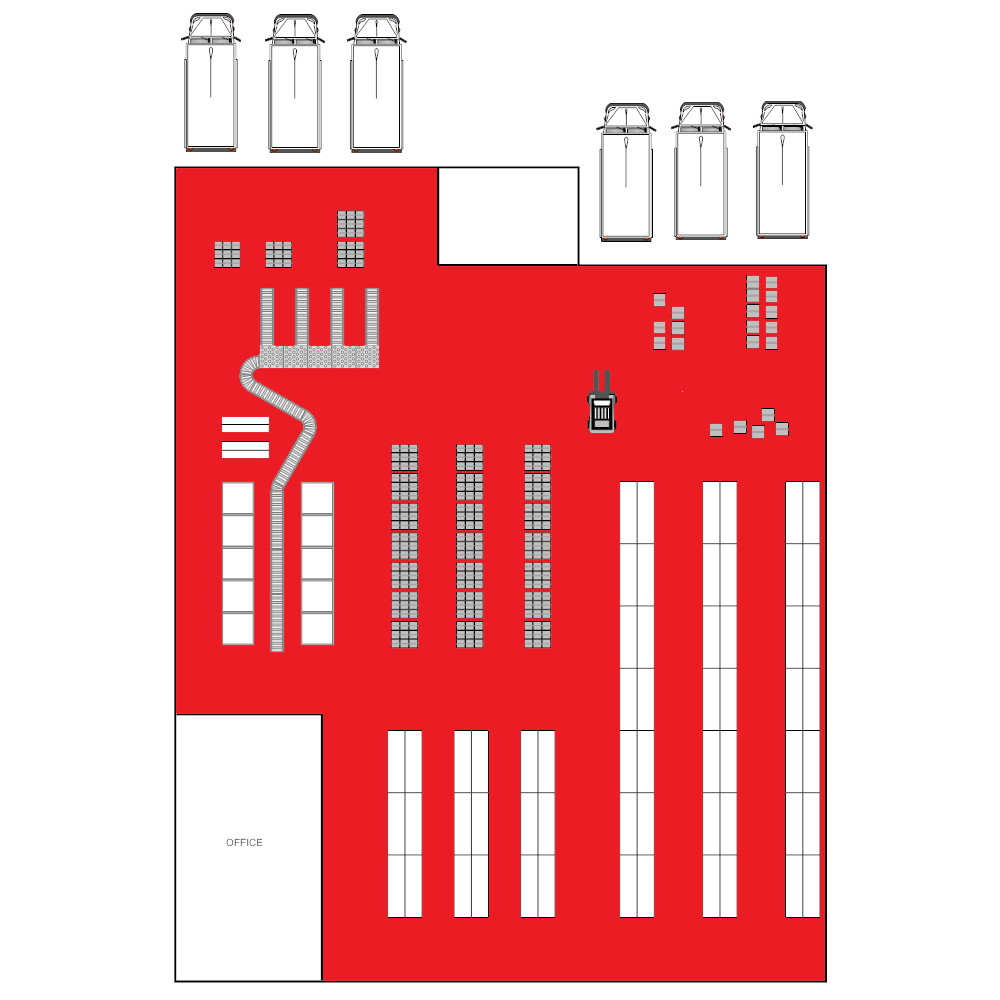
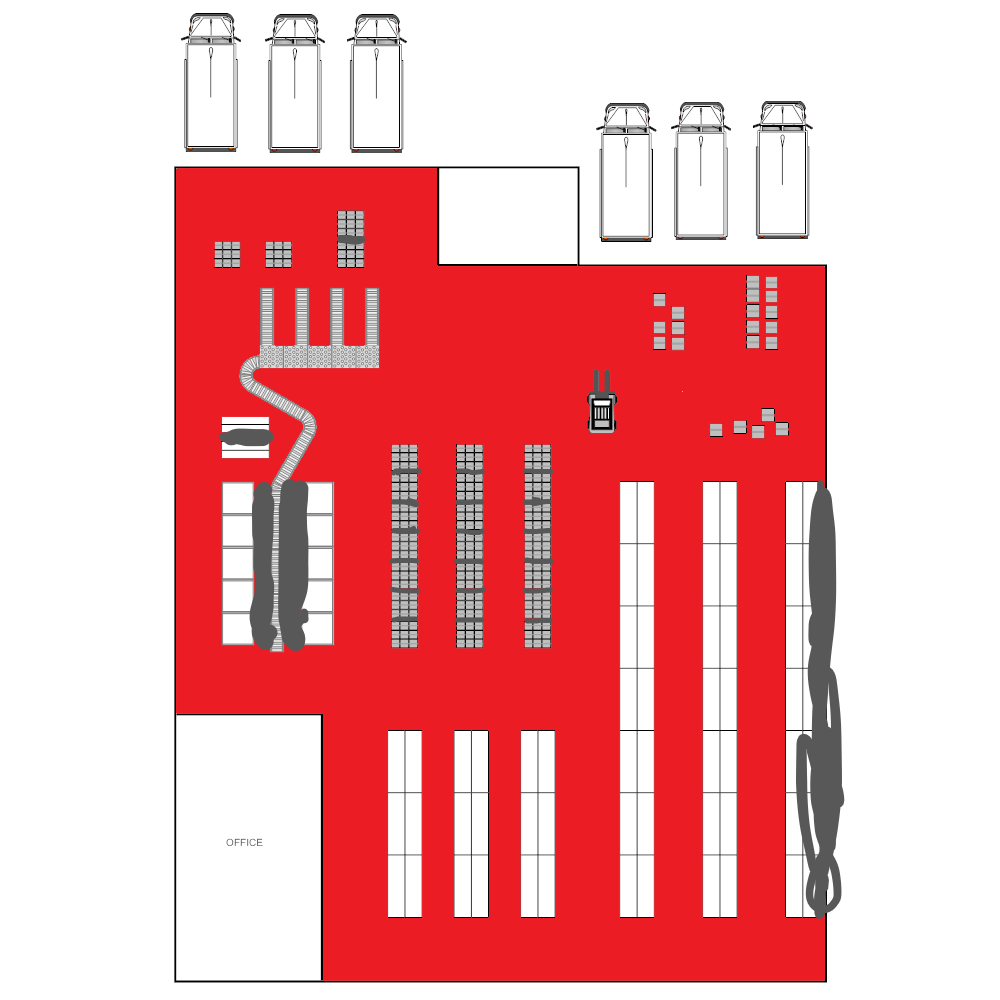
added visualisation animation method

diff --git a/VoronoiClass/VoronoiClass.py b/VoronoiClass/VoronoiClass.py
@@ -10,6 +10,7 @@ import pickle
 import pandas as pd
 
 import matplotlib.pyplot as plt
+import matplotlib.animation as animation
 
 from ortools.linear_solver import pywraplp
 from ortools.init import pywrapinit
@@ -171,9 +172,11 @@ class VoronoiMap:
         load the waypoints that the agents are to pass through
         """
 
+        self.waypoints_filename = waypoints_filename
+
         with open(waypoints_filename, 'r') as f:
             df = pd.read_csv(f, delimiter=',', )
-
+        
         self.towns_x = df.iloc[:, 0].to_numpy()
         self.towns_x = np.insert(self.towns_x, 0, start_x) * self.scale
 
@@ -206,8 +209,8 @@ class VoronoiMap:
         """
 
         from os.path import exists
-
-        file_exists = exists('distance_matrix_self.csv')
+        filename = 'distance_matrix_' + self.waypoints_filename.split('.')[0] + '.csv'
+        file_exists = exists(filename)
 
         if not file_exists:
             create_dist_start = time.time()
@@ -231,11 +234,11 @@ class VoronoiMap:
             distance_matrix = np.round_(distance_matrix).astype(int)
             print(distance_matrix)
 
-            np.savetxt("distance_matrix_self.csv", distance_matrix)
+            np.savetxt(filename, distance_matrix)
             print(time.time() - create_dist_start, 'seconds to create data matrix')
         else:
             print('Existing distance matrix file found')
-            with open('distance_matrix_self.csv') as f:
+            with open(filename) as f:
                 distance_matrix = np.genfromtxt(f, delimiter=' ')
                 distance_matrix = np.round_(distance_matrix).astype(int)
 
@@ -453,3 +456,72 @@ class VoronoiMap:
             self.plot()
 
         return self.routes, self.route_distances
+
+    def plot_animation(self):
+
+        width = int(self.img_original.shape[1] * self.scale)
+        height = int(self.img_original.shape[0] * self.scale)
+        dim = (width, height)
+        scaled_img_original = cv2.resize(self.img_original, dim, interpolation=cv2.INTER_AREA)
+
+        # plt.plot(self.towns_x[self.starting_town], self.towns_y[self.starting_town], 'o', markerfacecolor='w',  ms=10, alpha=1, color='black') #indicate start position with X
+        # plt.text(self.towns_x[self.starting_town]+10, self.towns_y[self.starting_town]+10, 'Start/Dropoff Point', fontsize=10, weight='bold') #indicate start position with X
+
+        # plt.imshow(scaled_img_original)
+
+        colour_code = 0
+        colours = ['blue', 'red', 'green', 'orange', 'purple']
+
+        fig = plt.figure()
+        ax = fig.add_subplot(111)
+
+        paths_x = []
+        paths_y = []
+
+        for route in self.routes:
+
+            path_x, path_y = [], []
+
+            route.append(self.starting_town)
+            for i in range(len(route)-1):
+                # print(route)
+                shortest_path = nx.shortest_path(self.G, tuple(self.towns_nodes[route[i]]), tuple(self.towns_nodes[route[i+1]]))
+                for j in range(len(shortest_path)):
+                    path_x.append(shortest_path[j][0])
+                    path_y.append(shortest_path[j][1])
+
+            paths_x.append(path_x)
+            paths_y.append(path_y)
+
+        ax.imshow(scaled_img_original)
+        ax.plot(self.towns_x[self.starting_town], self.towns_y[self.starting_town], 'o', markerfacecolor='w',  ms=8, alpha=1, color='black') #indicate start position with X
+        ax.text(self.towns_x[self.starting_town]+5, self.towns_y[self.starting_town]-10, 'Start/Dropoff Point', fontsize=10, weight='bold') #indicate start position with X
+        ax.axis('off')
+
+        colour_code = 0
+        for route in self.routes:
+            colour = colours[colour_code]
+            route.append(self.starting_town)
+            ax.plot(self.towns_x[route], self.towns_y[route], 'o', ms=5, alpha=0.5, c=colour)
+            colour_code += 1
+
+        line1, = ax.plot(paths_x[0], paths_y[0], colours[0], alpha=0.7)
+        line2, = ax.plot(paths_x[1], paths_y[1], colours[1], alpha=0.5)
+        line3, = ax.plot(paths_x[2], paths_y[2], colours[2], alpha=0.5)
+        # line4, = ax.plot(paths_x[3], paths_y[3], colours[3], alpha=0.5)
+        
+
+        def updateline(num, paths_x, paths_y, line1, line2, line3):
+            # print(data[0][..., :num])
+            line1.set_data(paths_x[0][:num], paths_y[0][:num])
+            line2.set_data(paths_x[1][:num], paths_y[1][:num])
+            line3.set_data(paths_x[2][:num], paths_y[2][:num])
+            # line4.set_data(paths_x[3][:num], paths_y[3][:num])
+            
+            return line1, line2, line3
+        
+        line_animation = animation.FuncAnimation(
+        fig, updateline, interval=10, fargs=(paths_x, paths_y, line1, line2, line3), blit=True, repeat=True)
+
+        line_animation.save('test.gif')
+        plt.show()

diff --git a/visualisation.py b/visualisation.py
@@ -1,10 +1,10 @@
 from VoronoiClass.VoronoiClass import VoronoiMap
 
 original_image_path = './maps/warehouse.png'
-marked_image_path = './maps/warehouse-inverse.png'
+marked_image_path = './maps/warehouse-inverse2.png'
 waypoints_path = 'test.csv'
 
-vm = VoronoiMap(scale=0.25)
+vm = VoronoiMap(scale=1)
 vm.load_original_image(original_image_path)
 vm.load_marked_image(marked_image_path)
 vm.generate_voronoi_paths()
@@ -15,7 +15,6 @@ vm.load_waypoints(waypoints_path, start_x=700, start_y=385)
 vm.generate_distance_matrix()
 vm.solve(no_agents=3)
 
-vm.plot()
+vm.plot_animation()
 
 ## Above can be completely replaced with vm.full_solve()
-
